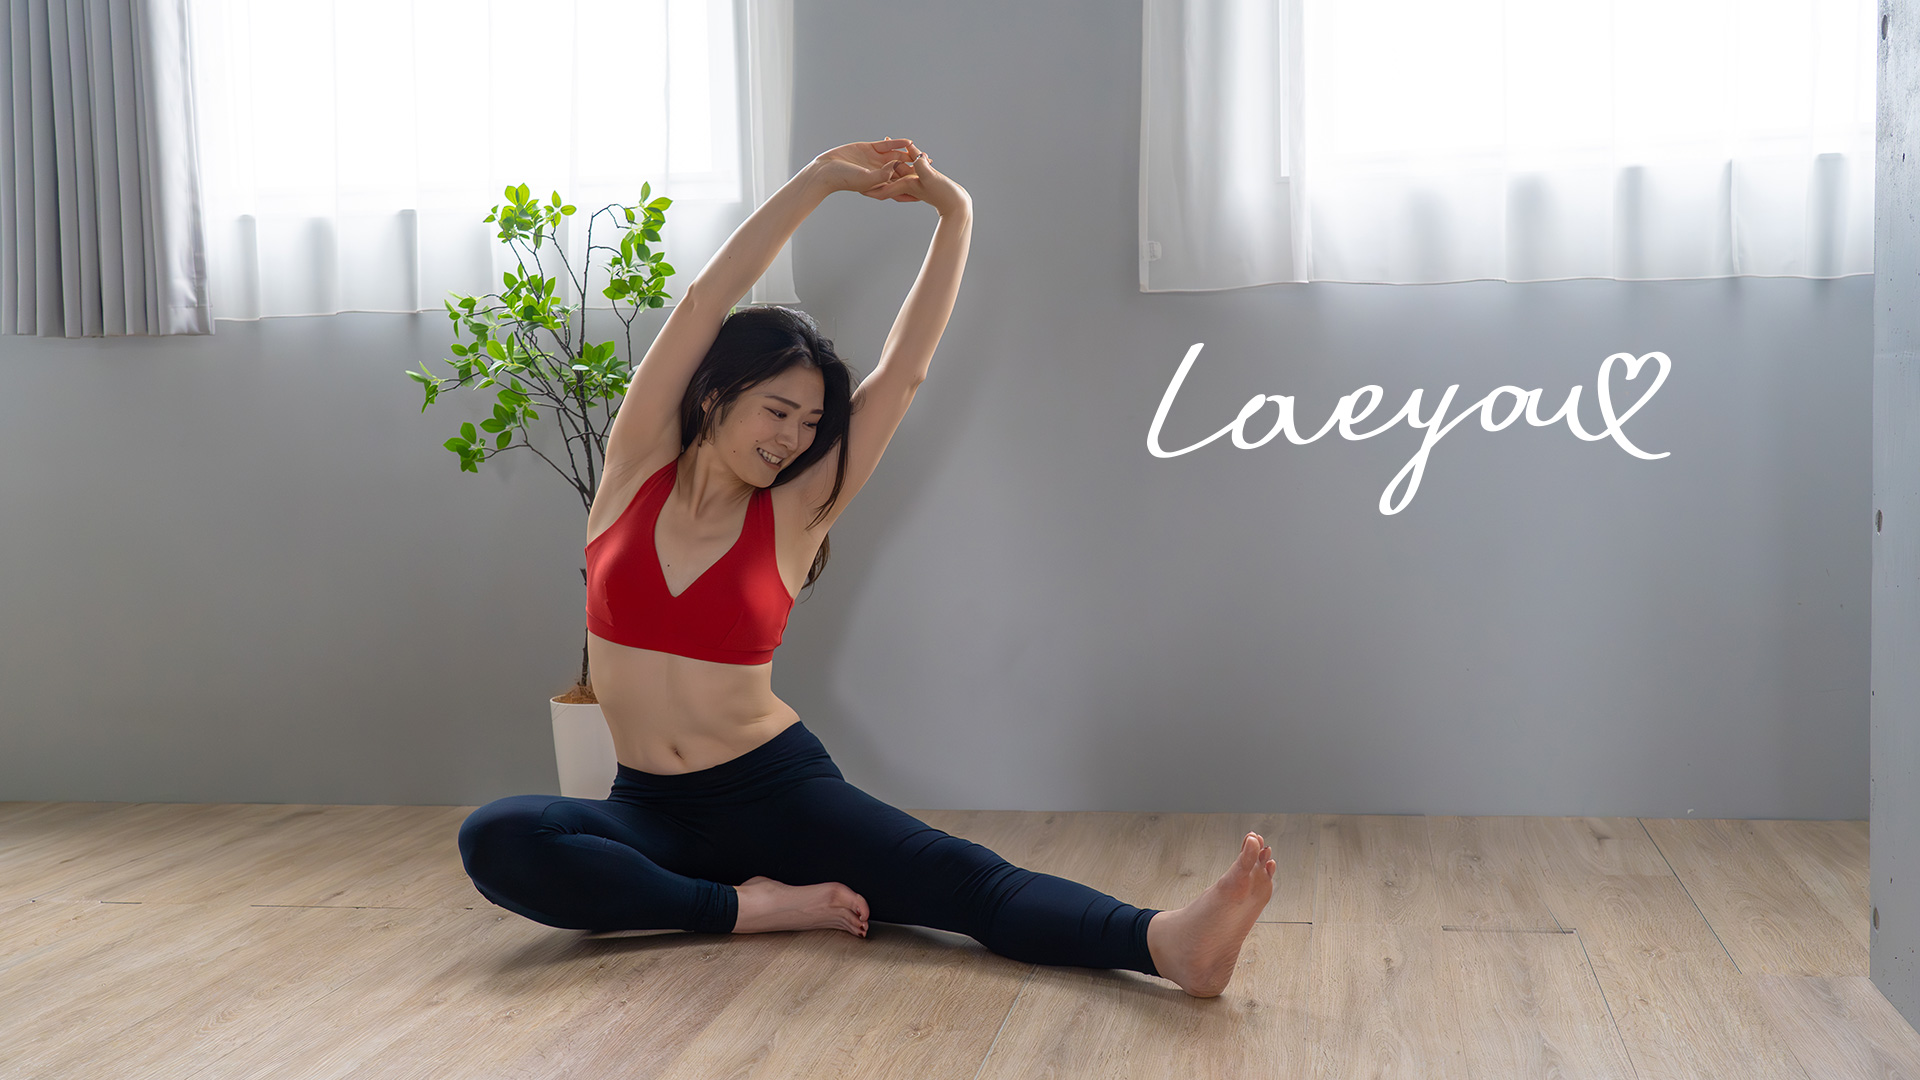
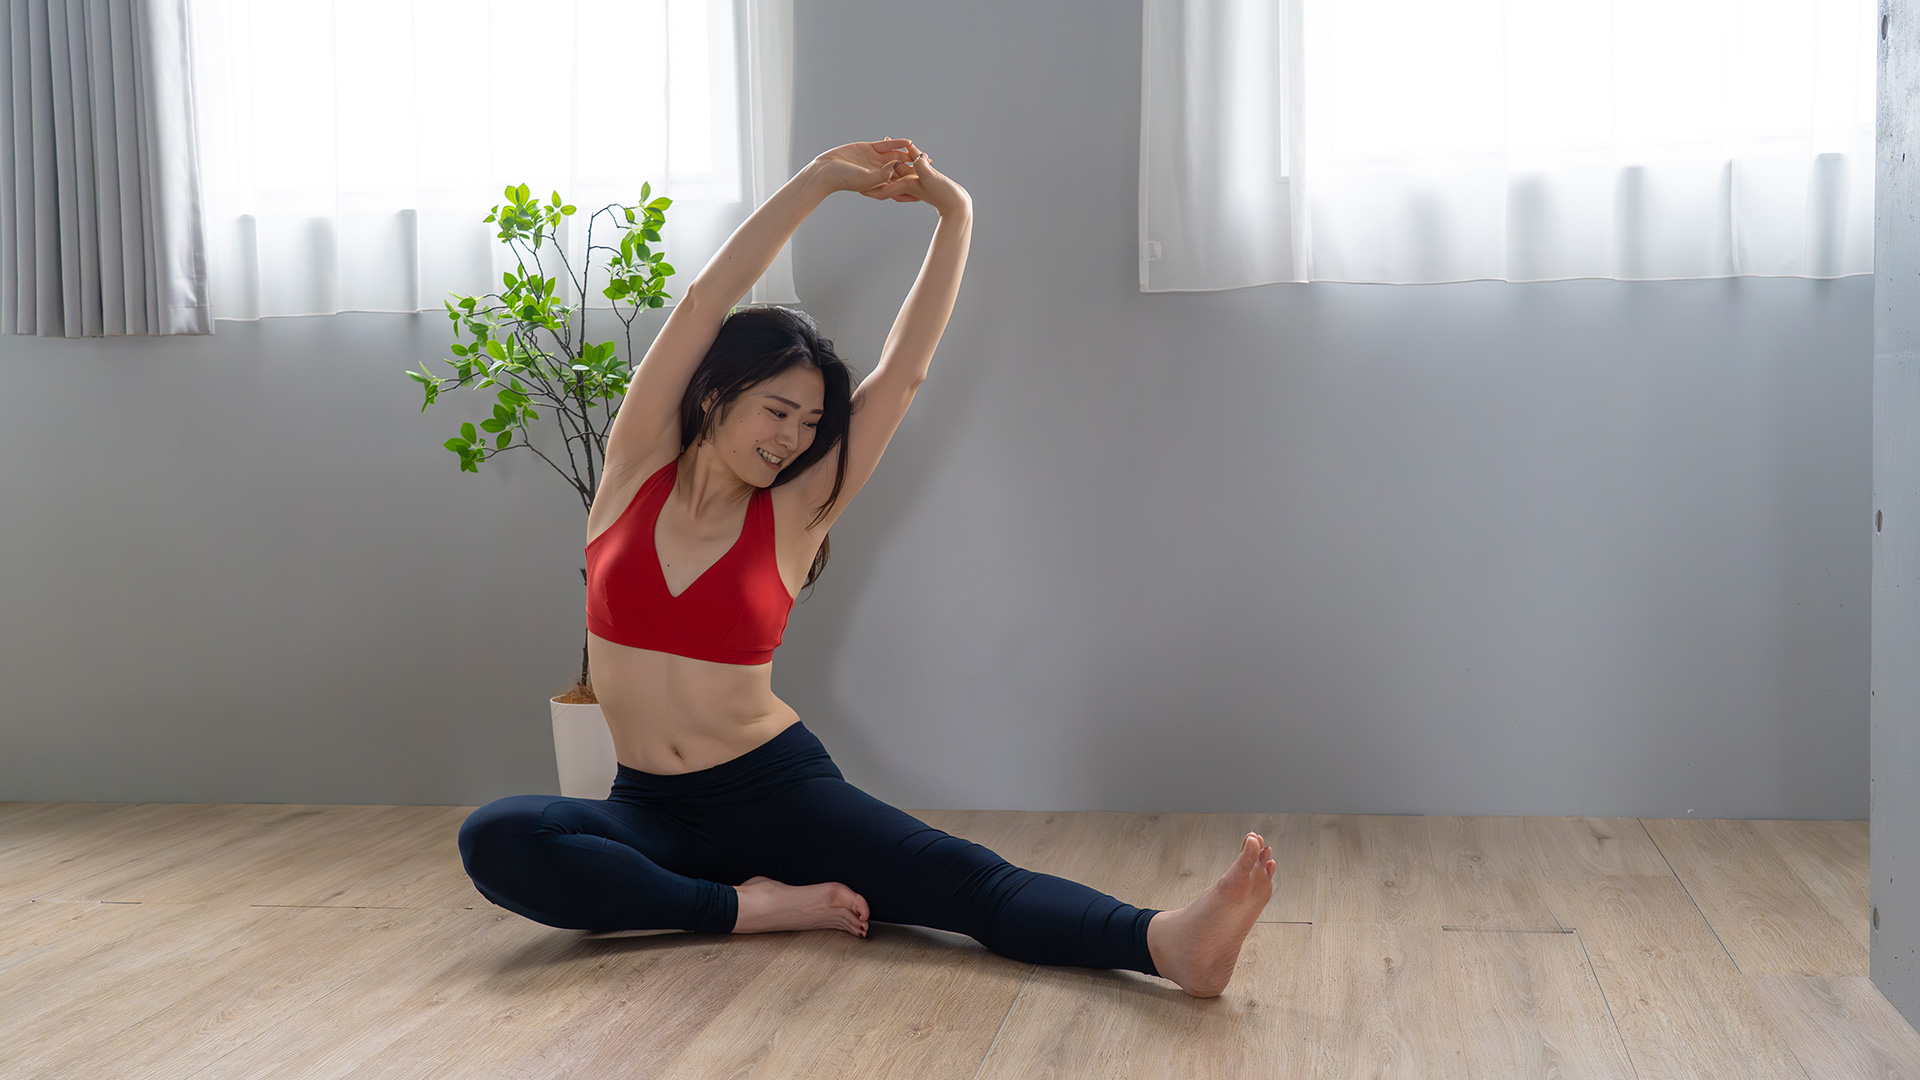
微調整

Changed region(s): [[0.5938, 0.3056, 0.875, 0.4889]]

diff --git a/index.html b/index.html
@@ -40,7 +40,8 @@
             </ul>
             <div class="menu-logo sm-display-show col-2"><img src="./image/loveyou_logo.png" alt="Loveyou"></div>
             <div id="carouselExampleInterval" class="carousel slide" data-bs-ride="carousel">
-                <div class="carousel-inner sm-display-none">
+                <div class="fv-logo sm-display-none"><img src="./image/loveyou_logo_w.svg" alt="Loveyou"></div>
+                <div class="carousel-inner">
                   <div class="carousel-item active" data-bs-interval="4000">
                     <img src="./image/loveyou_top.jpg" class="d-block img-fluid">
                   </div>
@@ -54,20 +55,8 @@
                     <img src="./image/loveyou_top4.jpg" class="d-block img-fluid">
                   </div>
                 </div>
-                <div class="carousel-inner sm-display-show">
-                    <div class="carousel-item active" data-bs-interval="4000">
-                      <img src="./image/loveyou_top_SP.jpg" class="d-block img-fluid">
-                    </div>
-                    <div class="carousel-item" data-bs-interval="4000">
-                      <img src="./image/loveyou_top2_SP.jpg" class="d-block img-fluid">
-                    </div>
-                    <div class="carousel-item" data-bs-interval="4000">
-                      <img src="./image/loveyou_top3_SP.jpg" class="d-block img-fluid">
-                    </div>
-                    <div class="carousel-item" data-bs-interval="4000">
-                      <img src="./image/loveyou_top4_SP.jpg" class="d-block img-fluid">
-                    </div>
-                </div>
+            </div>
+            </div>
                 <button class="carousel-control-prev" type="button" data-bs-target="#carouselExampleInterval" data-bs-slide="prev">
                   <span class="carousel-control-prev-icon" aria-hidden="true"></span>
                   <span class="visually-hidden">Previous</span>
@@ -103,7 +92,7 @@
                 <h2 class="origin-underline headline-style" id="products">Products</h2>
                 <p class="sm-text-left margin-bottom-115">元々薬剤師として女性の健康や美容に長く携わっているので、<br class="sp-hide">女性の悩みを解決してあげたいという想いから作った下着です。</p>
                 <div class="sm-display-none"><img src="./image/loveyou_products.jpg" class="img-fluid products-image"></div>
-                <div class="sm-display-show"><img src="./image/loveyou_products.jpg" class="img-fluid products-image"></div>
+                <div class="sm-display-show"><img src="./image/loveyou_products_SP.jpg" class="img-fluid products-image"></div>
             </div>
             <div class="row margin-bottom-115">
                 <div class="col-md-6 col-xs-12 sm-margin-bottom-50">

diff --git a/css/common.css b/css/common.css
@@ -96,6 +96,16 @@ p {
 .menu-logo {
     width: 100px;
 }
+.fv-logo{
+    position: absolute;
+    z-index: 999;
+    height: 70px;
+    width: 29%;
+    right: 12%;
+    top: -30%;
+    bottom: 0;
+    margin: auto;
+}
 .global-menu-shop-btn {
     padding-bottom: 1px;
 }
@@ -124,7 +134,6 @@ p {
     background-color: #a50000; /*下線の色*/
 }
 .loveyou-logo {
-    height: 100px;
     margin-bottom: 20px;
     width: 240px;
 }
@@ -171,6 +180,11 @@ p {
     .global-menu {
         display: none;
     }
+    .carousel {
+        width: 200%;
+        margin-left: -40%;
+    }
+    }
     .sm-display-none {
         display: none;
     }
@@ -191,5 +205,9 @@ p {
     }
     .concept-block {
         margin-bottom: 30px;
+    }
+    .loveyou-logo {
+        margin-bottom: 20px;
+        width: 140px;
     }
 }
